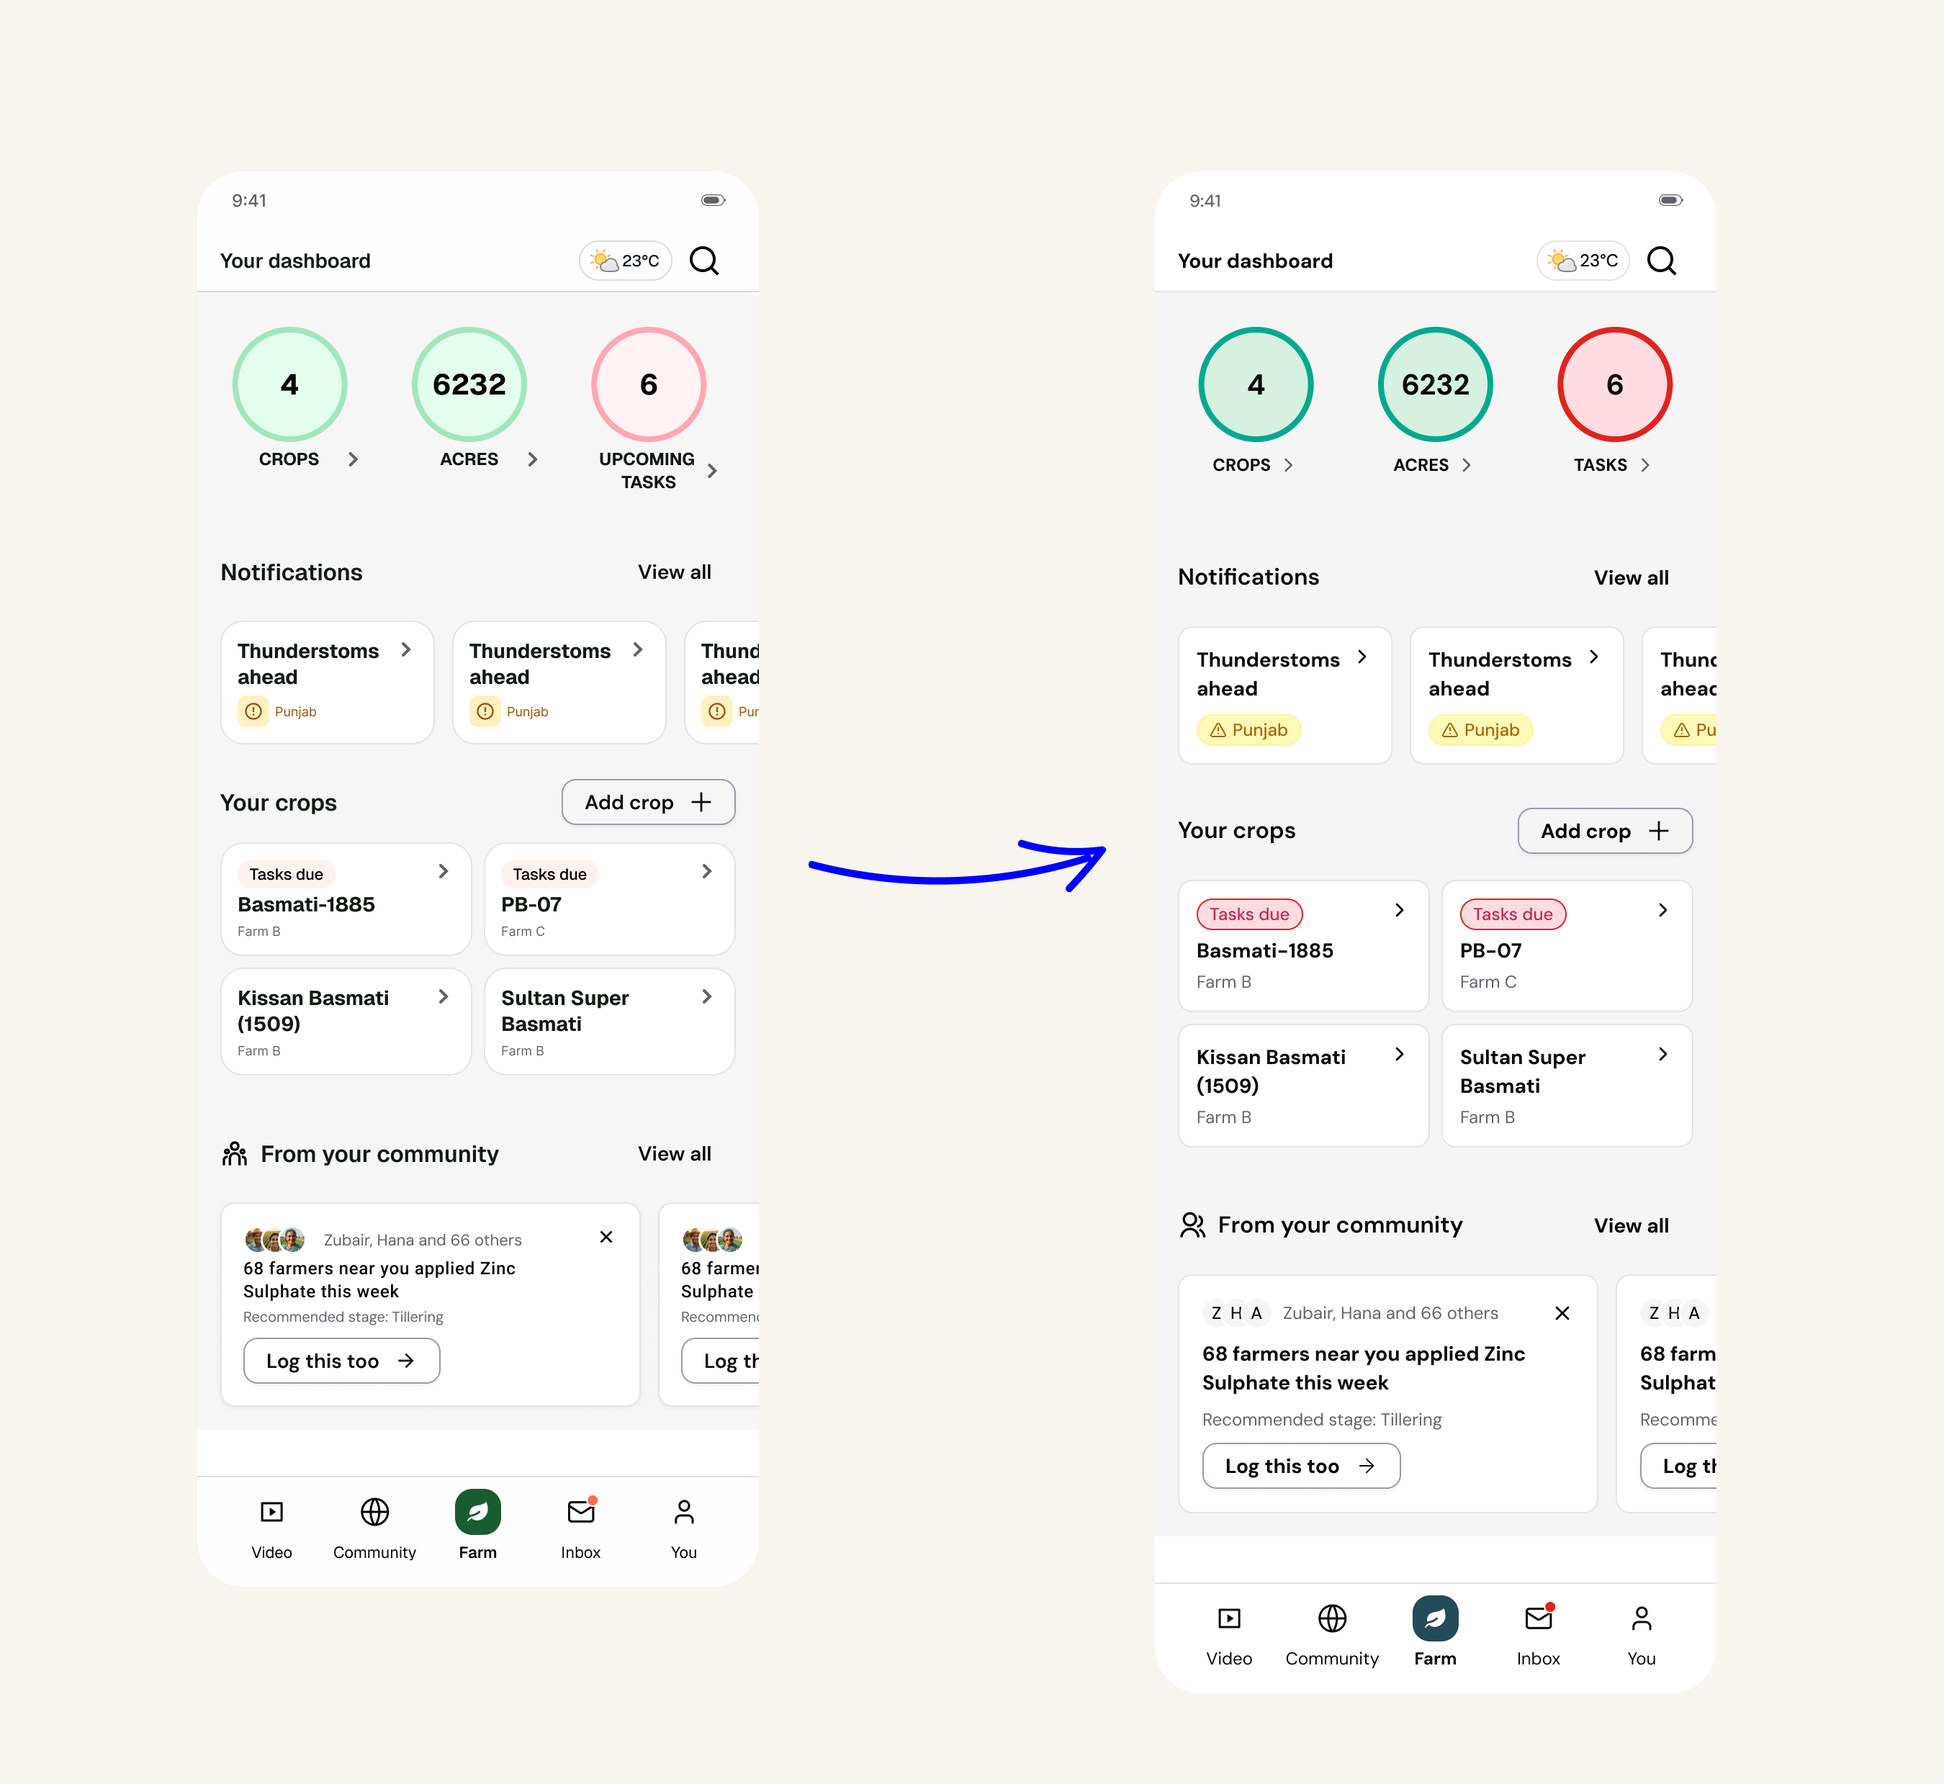
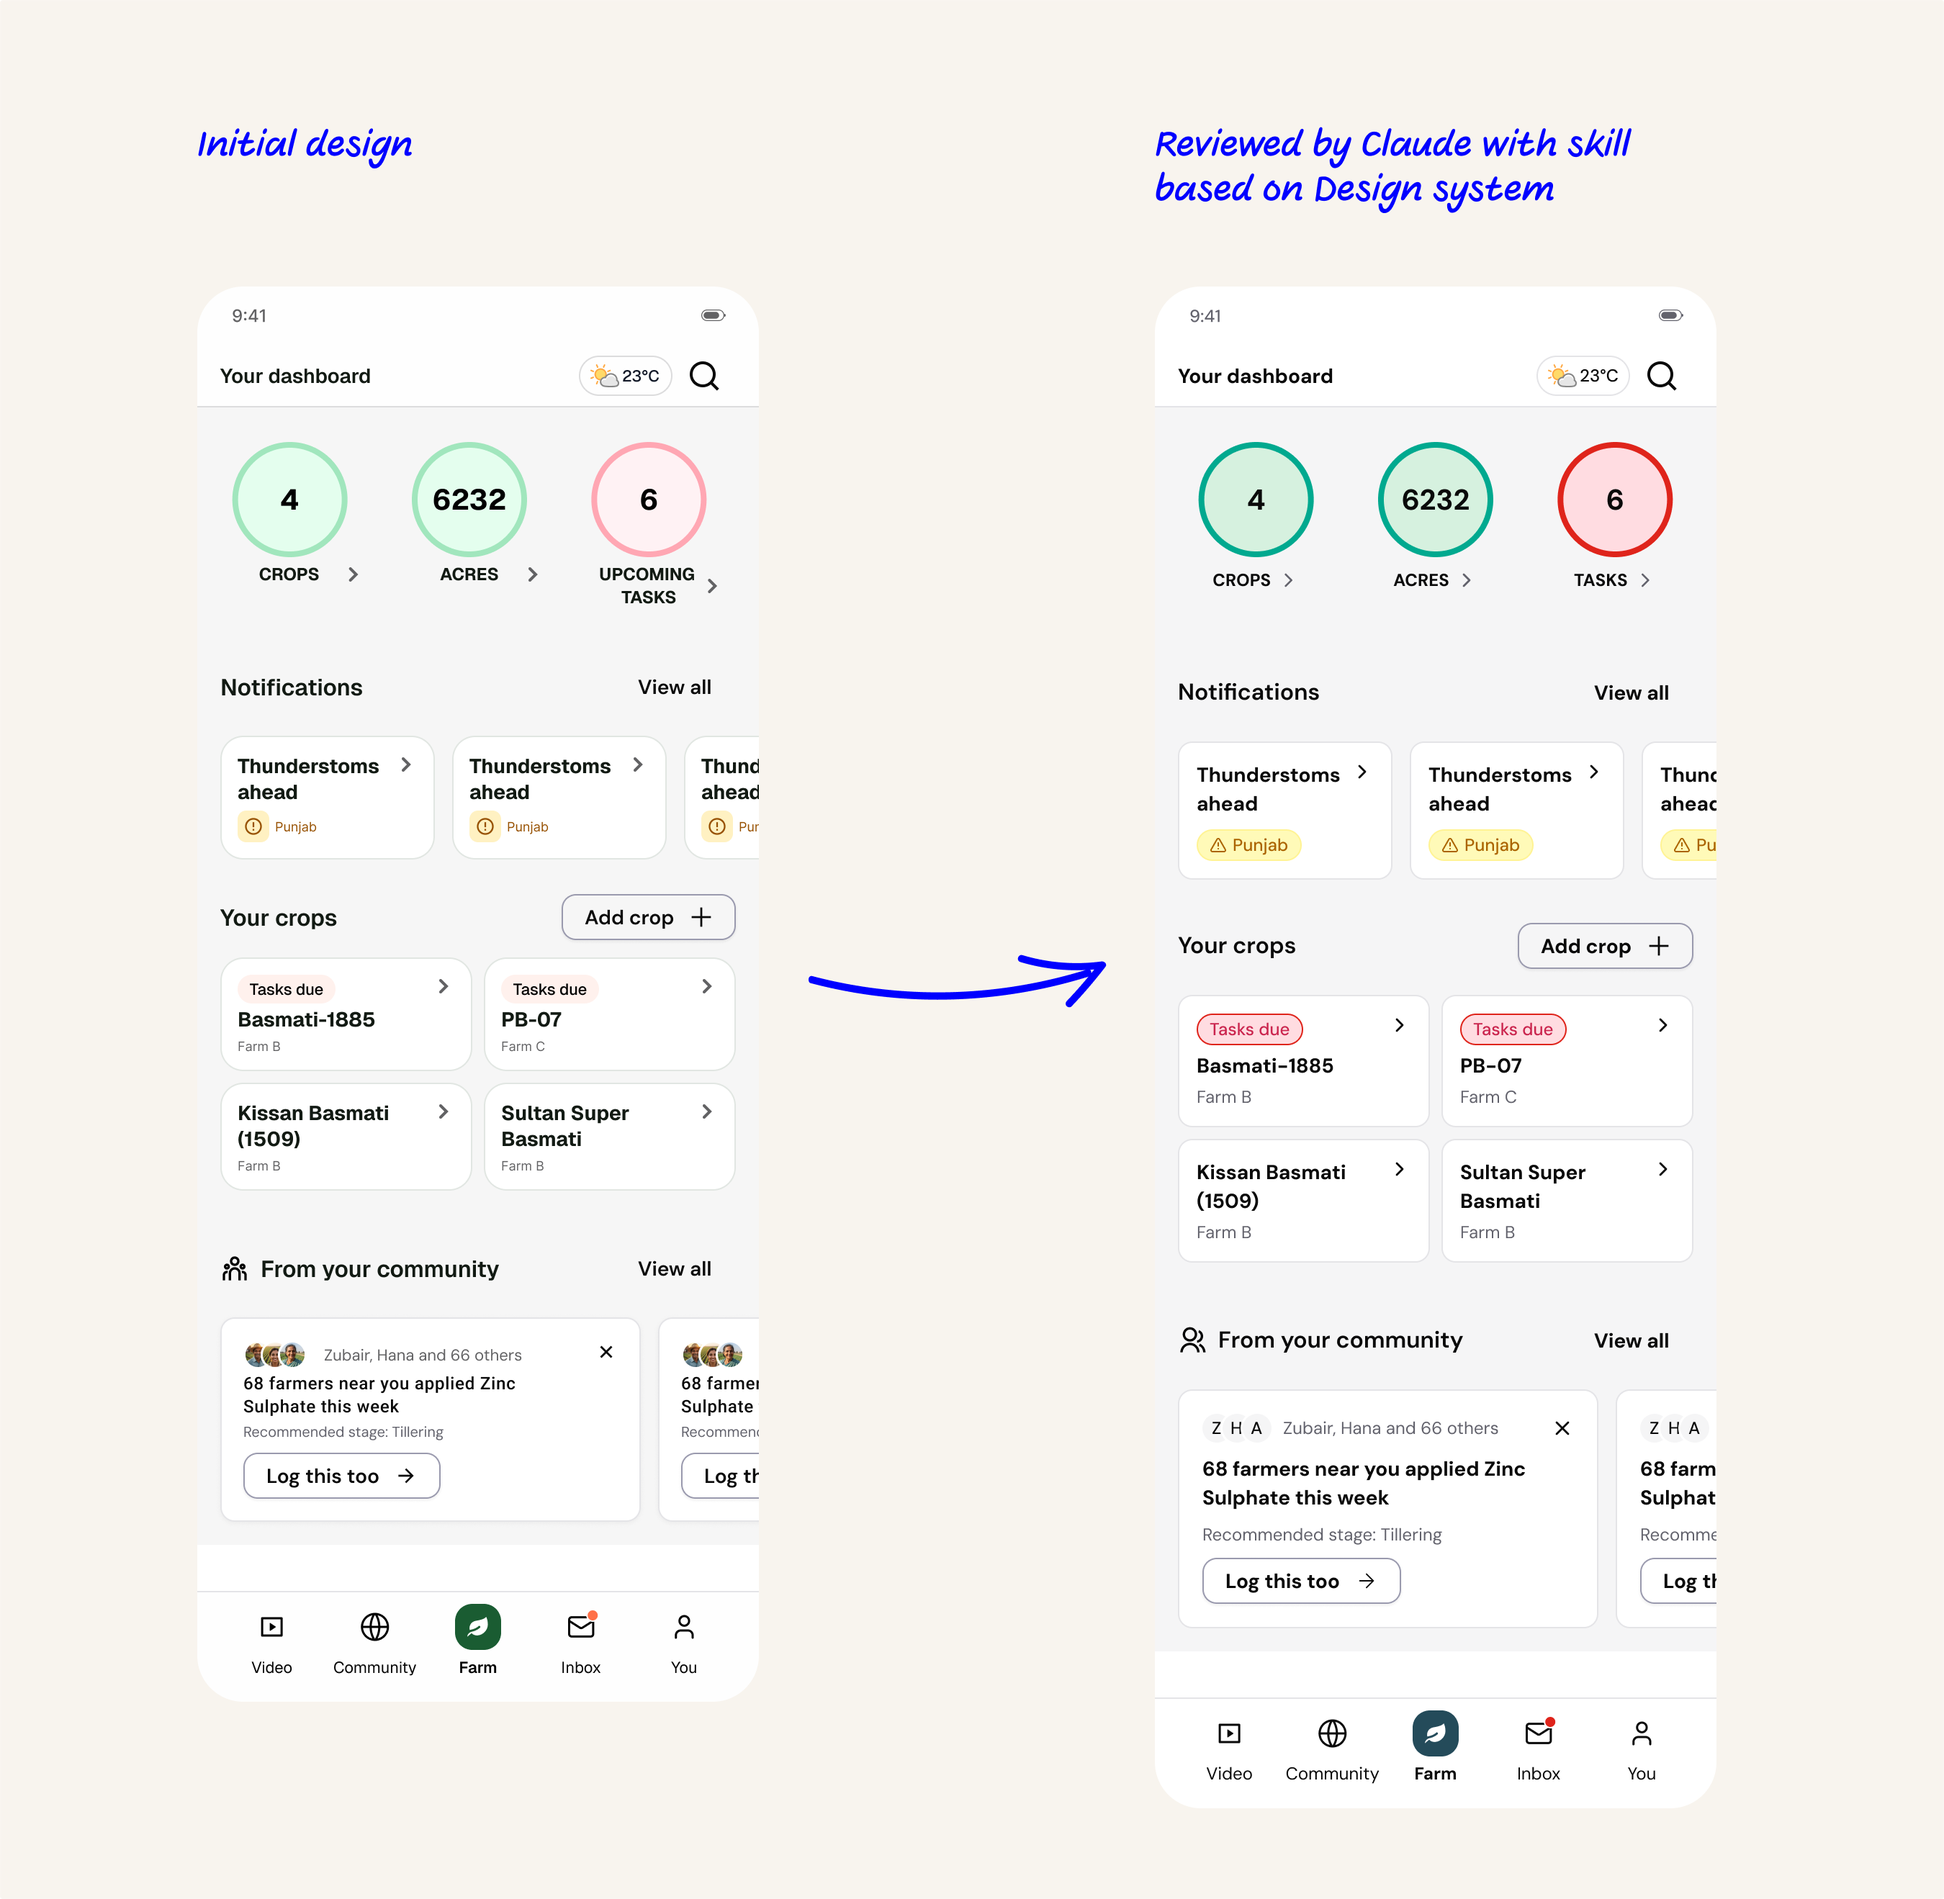
dashboard image

diff --git a/src/lib/projects.ts b/src/lib/projects.ts
@@ -1794,7 +1794,15 @@ export const projects: Project[] = [
         kind: "media",
         bordered: true,
         width: "reduced-70",
-        media: { kind: "placeholder", label: "DASHBOARD BEFORE / AFTER SYSTEM AUDIT" },
+        media: {
+          kind: "image",
+          image: {
+            src: "/projects/kashtkaar/design%20system/dashboard%20change.png",
+            width: 2700,
+            height: 2478,
+            alt: "Kashtkaar dashboard before and after aligning colours, typography and components to the design system",
+          },
+        },
       },
       {
         kind: "media",
